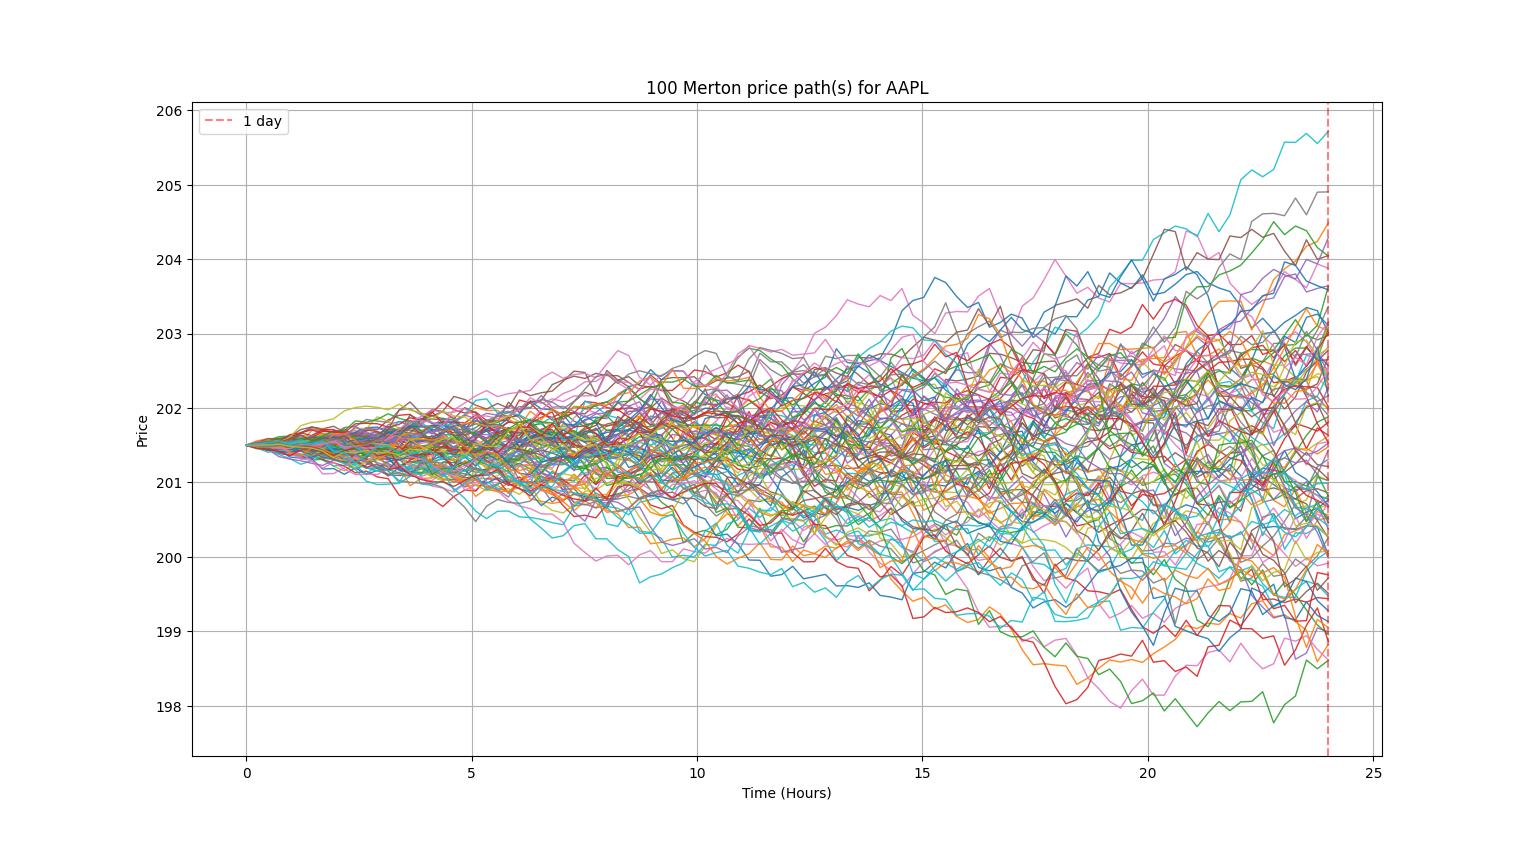
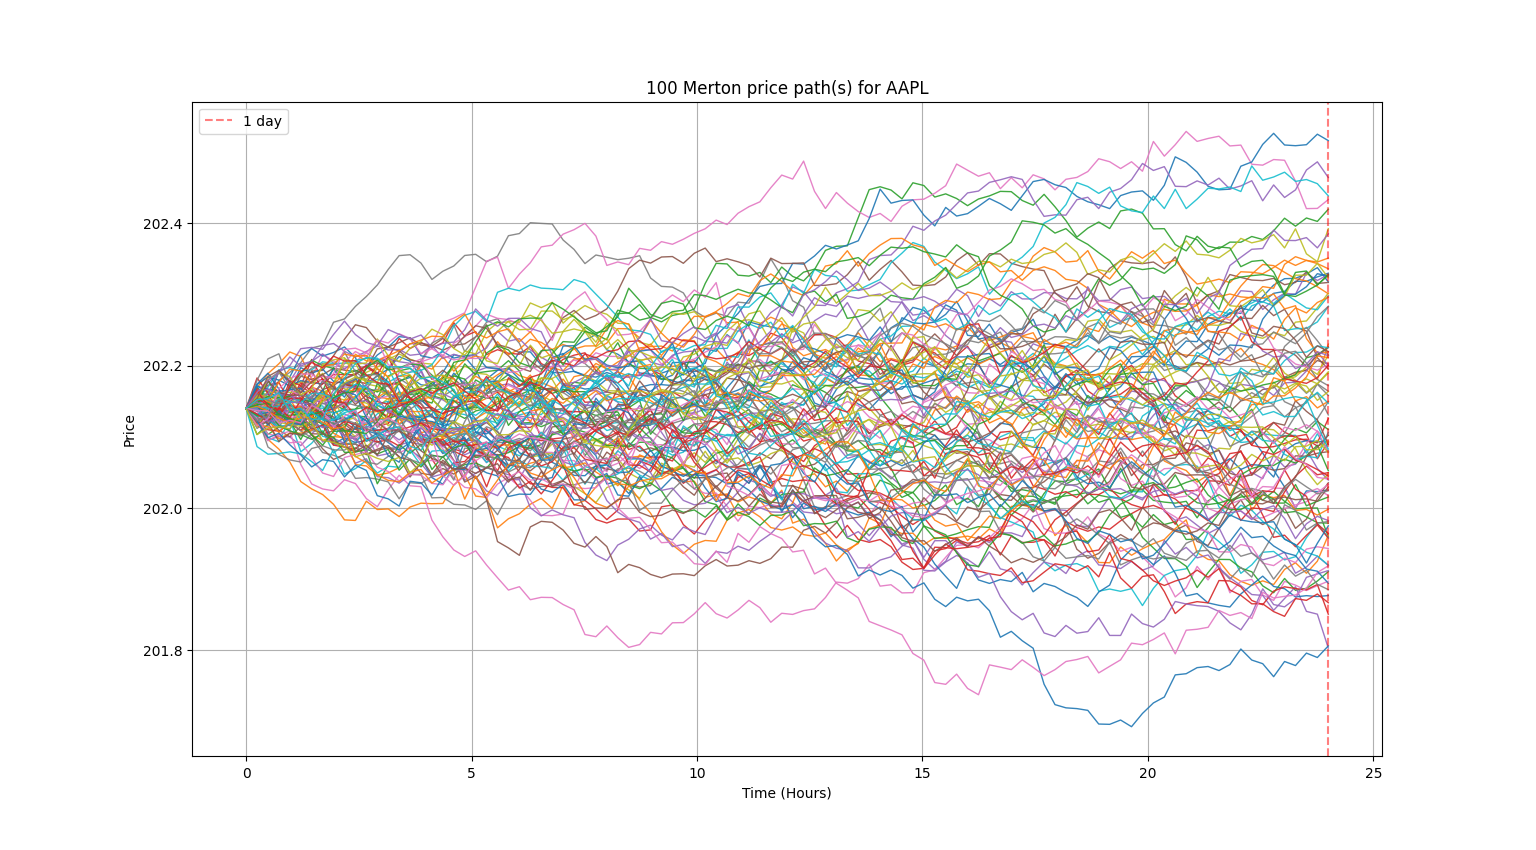
Tweaking the compounding logic
Fine tuned the compounding logic, it was flawed before since it still multiplied the step value with dt.
    Also updated test results on README and added their respective plots.
    Added a few extra comments in C++ code for extra readability (It doesn't help much, but worth a shot).

diff --git a/cpp/sim.cpp b/cpp/sim.cpp
@@ -14,10 +14,10 @@ std::vector<double> price_path (double price, double mean, double vol, double la
 double estimate(double price, double mean, double vol, double lam, double k, double sig_j, double time, std::mt19937 &gen);
 
 // Price path function
-// Obtains price path with 100 data points
+// Obtains price path with 100 data points (Including the initial price)
 std::vector<double> price_path (double price, double mean, double vol, double lam, double k, double sig_j, double time) {
 
-    // Declaring price path array
+    // Declaring price path array and initializing first value to current price
     std::vector<double> prices(100);
     prices[0] = price;
 
@@ -26,15 +26,19 @@ std::vector<double> price_path (double price, double mean, double vol, double la
     std::random_device rd;
     std::mt19937 gen(rd());
 
-    // Precomputing dt to increase computational efficiency
-    double dt = time/101;
+    // Precomputing dt and initializing previousPRICE variable
+    double dt = time/100;
     double previousPRICE = price;
 
-    // Monte Carlo Simulation to find the price path of the given stock
-    for (int i = 1; i <= 100; i++) {
-        previousPRICE = estimate (previousPRICE, mean, vol, lam, k, sig_j, dt*i, gen);
+    // Finding the price path of the stock
+    // Compounds from previousPRICE essentially making it recursive
+    for (int i = 1; i <= 99; i++) {
+        previousPRICE = estimate (previousPRICE, mean, vol, lam, k, sig_j, dt, gen);
         prices[i] = previousPRICE;
     }
+
+    // Debugging code
+    // std::cout << prices.size() << std::endl;
 
     // Returning the list to python to plot on graph and further analysis
     return prices;
@@ -43,13 +47,10 @@ std::vector<double> price_path (double price, double mean, double vol, double la
 //Merton Jump Diffusion expected price estimation function
 double estimate (double price, double mean, double vol, double lam, double k, double sig_j, double time, std::mt19937 &gen) {
 
-    // This was the critical mistake. "first_term" was used instead of "mean" in MJD EQUATION
-    // double first_term = mean - (std::pow(vol, 2)) - (lam*k);
-
     // J distribution variables
     double J_mean = std::log(1+k)-(std::pow(sig_j, 2)/ (double)2);
 
-    // Distributions
+    // Initializing distributions for Brownian noise and Jump component
     // Assigning functions for the respective distributions to be used in MJD
     std::normal_distribution<double> wiener_dist(0.0, 1.0);
     std::normal_distribution<double> J_dist(J_mean, sig_j);
@@ -72,7 +73,11 @@ double estimate (double price, double mean, double vol, double lam, double k, do
 
     // MJD EQUATION
     // Computing and returning expected price using MJD equation
+    // MJD EQUATION roughly is price * exp ( mean.time + BROWNIAN NOISE + JUMP COMPONENT)
     double expected_price = price * std::exp( (mean * time) + (vol * Wt) + Ji_sum);
+
+    // Why do I even use expected_price variable when I can return it directly?
+    // I guess we'll never know
     return expected_price;
 }
 

diff --git a/README.md b/README.md
@@ -83,12 +83,12 @@ Enter number of paths: 100
 ==============================================
 RESULTS (MAY VARY EACH RUN)
 Stock chosen for analysis: BRK-B
-Current Price = 487.77
-Median Expected Price (1 day) = 487.54
-Average Expected Price (1 day) = 487.63
-Highest Simulated Price = 491.86
-Lowest Simulated Price = 484.74
-Chances of Price Increase = 43.00%
+Current Price = 495.63
+Median Expected Price (1 day) = 495.63
+Average Expected Price (1 day) = 495.64
+Highest Simulated Price = 496.25
+Lowest Simulated Price = 495.07
+Chances of Price Increase = 50.00%
 ==============================================
 ```
 
@@ -105,12 +105,12 @@ Enter number of paths: 100
 ==============================================
 RESULTS (MAY VARY EACH RUN)
 Stock chosen for analysis: AAPL
-Current Price = 201.50
-Median Expected Price (1 day) = 201.50
-Average Expected Price (1 day) = 201.49
-Highest Simulated Price = 205.71
-Lowest Simulated Price = 198.61
-Chances of Price Increase = 50.00%
+Current Price = 202.14
+Median Expected Price (1 day) = 202.11
+Average Expected Price (1 day) = 202.13
+Highest Simulated Price = 202.52
+Lowest Simulated Price = 201.80
+Chances of Price Increase = 47.00%
 ==============================================
 ```
 
@@ -127,12 +127,12 @@ Enter number of paths: 100
 ==============================================
 RESULTS (MAY VARY EACH RUN)
 Stock chosen for analysis: TSLA
-Current Price = 348.68
-Median Expected Price (1 day) = 348.36
-Average Expected Price (1 day) = 348.61
-Highest Simulated Price = 364.55
-Lowest Simulated Price = 329.71
-Chances of Price Increase = 49.00%
+Current Price = 342.10
+Median Expected Price (1 day) = 342.05
+Average Expected Price (1 day) = 342.00
+Highest Simulated Price = 344.38
+Lowest Simulated Price = 339.16
+Chances of Price Increase = 47.00%
 ==============================================
 ```
 
